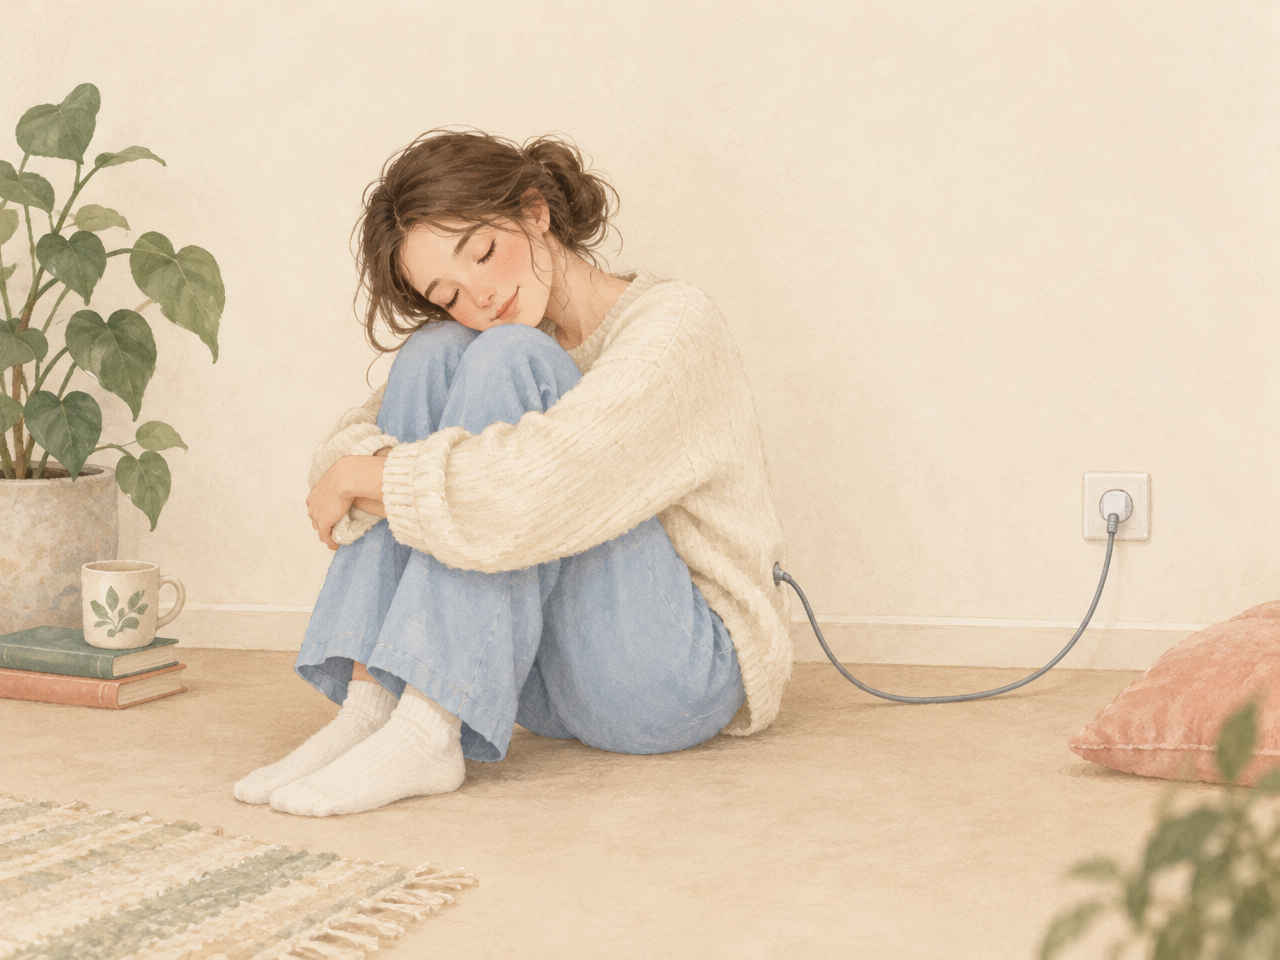
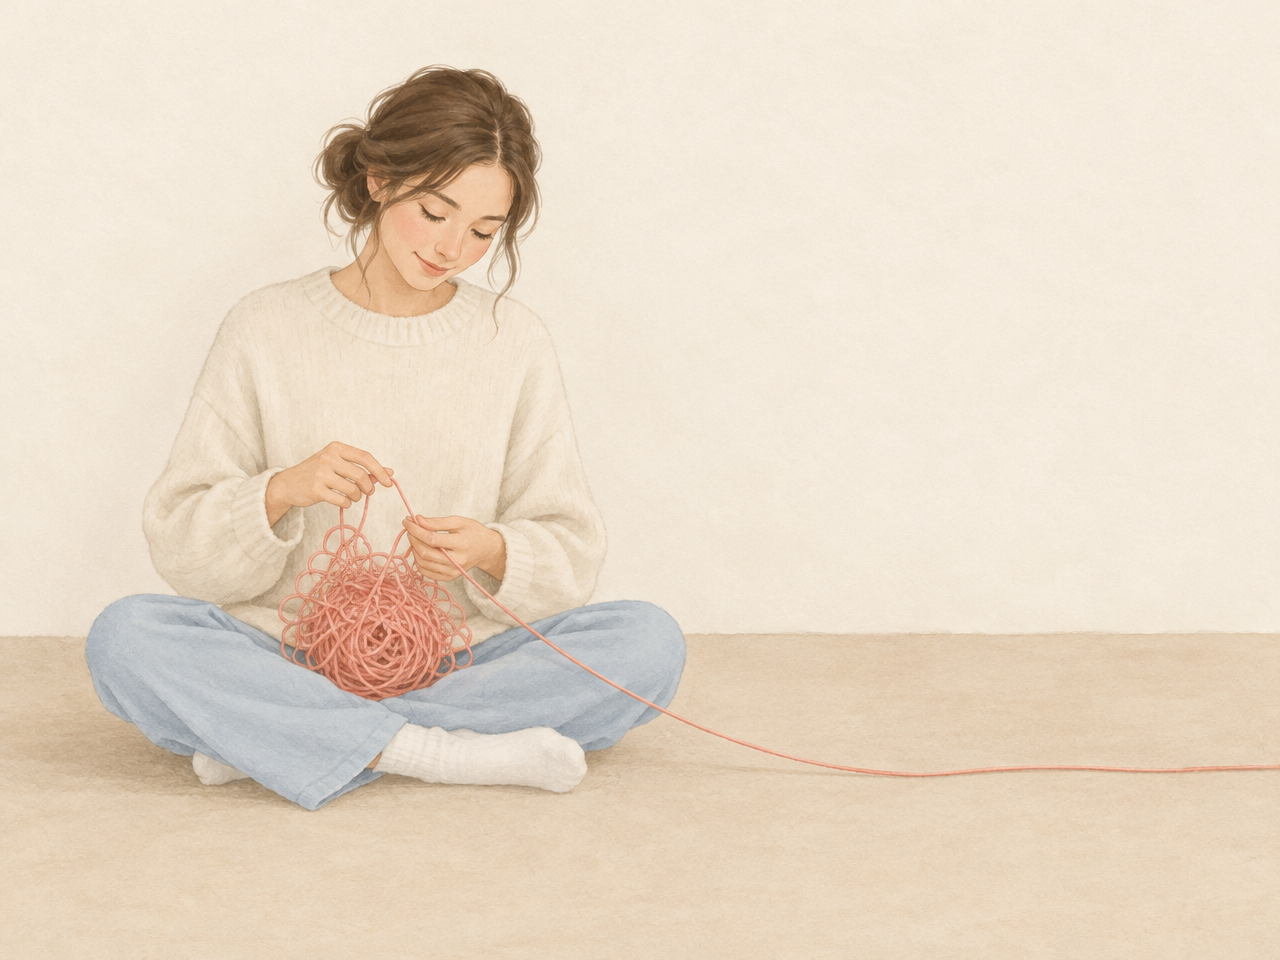
Palette saumon et bleu poudré, nouvelle illustration pour le stress
- Le doré est remplacé par le bleu : boutons RDV bleu doux, footer bleu pâle, encarts bleu brume ;
  le saumon reste pour les bandeaux, le cuivre pour les accents et les étoiles
- Stress et anxiété : elle démêle une pelote de fil qui devient une ligne calme (plus de prise électrique)

diff --git a/src/styles/global.css b/src/styles/global.css
@@ -2,18 +2,18 @@
 @import '@fontsource/young-serif';
 @import '@fontsource-variable/figtree';
 
-/* Palette sobre, pastel saumon et doré. Aucun bloc sombre, texte encre (gris chaud) partout.
-   Contrastes AA : encre sur miel 6,4:1, sur champagne et saumon > 9:1 ; cuivre sur crème 5:1. */
+/* Palette sobre : saumon pastel et bleu poudré (oct. 2026). Aucun bloc sombre, texte encre partout.
+   Contrastes AA : encre sur bleu 7:1, sur ciel, brume et saumon > 9:1 ; cuivre sur crème 5:1. */
 @theme {
   --color-creme: #faf5ef; /* fond principal */
   --color-sable: #f3e8dc; /* sections alternées, fonds de cartes */
-  --color-cuivre: #a5513f; /* saumon profond : accents texte, titres H3, liens */
-  --color-miel: #c9a25a; /* doré : boutons « Prendre rendez-vous », bandeau final, étoiles des avis */
-  --color-champagne: #eedfc0; /* doré pâle : encarts « En pratique » / RDV */
-  --color-saumon: #efc3b6; /* saumon pastel : footer, bandeau de citation */
-  --color-peche: #f5dccb; /* illustrations */
-  --color-sauge: #a9b8a2; /* vert sauge : illustrations */
-  --color-ciel: #c9d8e0; /* bleu ciel pastel : illustrations */
+  --color-cuivre: #a5513f; /* saumon profond : accents texte, titres H3, liens, étoiles des avis */
+  --color-bleu: #9fb6cb; /* bleu doux : boutons « Prendre rendez-vous », puces */
+  --color-ciel: #cfdce6; /* bleu pâle : footer */
+  --color-brume: #e3ebf1; /* bleu brume : encarts « En pratique » / RDV */
+  --color-saumon: #efc3b6; /* saumon pastel : bandeaux (citation, « Envie d'en parler ? ») */
+  --color-peche: #f5dccb; /* touches décoratives */
+  --color-sauge: #a9b8a2; /* touches décoratives */
   --color-encre: #3d3431; /* texte, contour de focus */
 
   --font-serif: 'Young Serif', Georgia, serif;
@@ -73,7 +73,7 @@
     min-height: 48px;
   }
   .btn-rdv {
-    @apply bg-miel text-encre hover:bg-[#b8904a];
+    @apply bg-bleu text-encre hover:bg-[#8aa3ba];
   }
   /* Bouton RDV posé sur un bloc coloré (corail, soleil) : fond crème pour qu'il ressorte */
   .btn-rdv.btn-on-color {
@@ -133,7 +133,7 @@
   }
   .card:hover {
     translate: 0 -4px;
-    @apply border-miel/40 bg-white/60;
+    @apply border-bleu/40 bg-white/60;
   }
   .prose-pauline p + p {
     margin-top: 1rem;

diff --git a/CLAUDE.md b/CLAUDE.md
@@ -106,24 +106,24 @@ scripts/screenshots.mjs
 
 ## Charte graphique
 
-Palette **sobre, pastel saumon et doré** (oct. 2026). Aucun bloc sombre : fonds clairs, texte encre (gris chaud) partout. Photos phares en arche (`.arch`), le reste en `rounded-2xl/3xl`.
+Palette **sobre : saumon pastel et bleu poudré** (oct. 2026 ; le doré a été écarté). Aucun bloc sombre : fonds clairs, texte encre (gris chaud) partout. Photos phares en arche (`.arch`), le reste en `rounded-2xl/3xl`.
 
 | Token | Hex | Rôle |
 |---|---|---|
 | `creme` | `#faf5ef` | fond principal |
 | `sable` | `#f3e8dc` | sections alternées, fonds de cartes |
-| `cuivre` | `#a5513f` | saumon profond : accents texte, titres H3, liens (5:1 sur crème) |
-| `miel` | `#c9a25a` | doré : **boutons « Prendre rendez-vous »** (texte encre, 6,4:1), bandeau final, étoiles des avis |
-| `champagne` | `#eedfc0` | doré pâle : encarts « En pratique » / RDV |
-| `saumon` | `#efc3b6` | saumon pastel : footer, bandeau de citation |
-| `peche`, `sauge`, `ciel` | `#f5dccb`, `#a9b8a2`, `#c9d8e0` | illustrations |
+| `cuivre` | `#a5513f` | saumon profond : accents texte, titres H3, liens, étoiles des avis (5:1 sur crème) |
+| `bleu` | `#9fb6cb` | bleu doux : **boutons « Prendre rendez-vous »** (texte encre, 7:1), puces |
+| `ciel` | `#cfdce6` | bleu pâle : footer |
+| `brume` | `#e3ebf1` | bleu brume : encarts « En pratique » / RDV |
+| `saumon` | `#efc3b6` | saumon pastel : bandeau de citation, bandeau « Envie d'en parler ? » |
+| `peche`, `sauge` | `#f5dccb`, `#a9b8a2` | touches décoratives |
 | `encre` | `#3d3431` | texte, contour de focus |
 
-- Sur un bloc coloré (champagne, miel), le bouton RDV prend la classe `btn-on-color` (fond crème) pour ressortir.
 - **Typo :** `Young Serif` pour les titres et les citations (`font-serif`), `Figtree Variable` pour le texte (`font-sans`). Corps 17 px, interligne 1,65.
 - **À éviter :** labels en MAJUSCULES espacées, mot isolé en couleur ou en italique dans un titre, numérotation 01/02/03 décorative, animations d'entrée sur chaque section, cartes identiques avec ombre grise.
 - **Logo :** `Logo.astro` (cerveau dont l'intérieur est un arbre en feuilles, vectorisé depuis le fichier de Pauline, en `currentColor`) + `public/favicon.svg` (même tracé en pivoine).
-- **Footer :** fond doré (`miel`), texte encre, bouton RDV `btn-on-color`. Pas de liste de communes dans le texte (elles restent dans le JSON-LD `areaServed`).
+- **Footer :** fond bleu pâle (`ciel`), texte encre, bouton RDV `btn-on-color`. Pas de liste de communes dans le texte (elles restent dans le JSON-LD `areaServed`).
 - **Header :** 4 entrées seulement (« Accompagnements » avec menu déroulant CSS des 7 pages au survol / focus, Qui suis-je, Mes écrits, Infos pratiques). « Hypnose et NEMO » et la FAQ sont dans le menu mobile et le footer. Téléphone en icône, bouton « Rendez-vous ». Réseaux sociaux en icônes dans le footer (`SocialIcons.astro`).
 - **Responsive :** la nav desktop apparaît à partir de `xl` (1280 px). En dessous, bouton menu (pages thématiques + sections + FAQ + langue) + icône téléphone. Le header utilise `max-w-7xl`, le contenu `max-w-6xl` (`.wrap`).
 - **Accessibilité :** focus visible (outline argile), lien d'évitement « Aller au contenu », `prefers-reduced-motion` respecté.

diff --git a/docs/prompts-illustrations.md b/docs/prompts-illustrations.md
@@ -26,7 +26,7 @@ Pour garder une série cohérente : générer les 10 dans la même conversation 
 |---|---|---|
 | `hypnose` | Accueil, « L'hypnose, c'est quoi ? » | She sits cross-legged on the floor, eyes closed, relaxed; a soft white cloud gently surrounds her head, as if she were inside a daydream. |
 | `nemo` | Accueil, « NEMO, c'est quoi ? » | She sits in a comfortable armchair, seen in profile, her eyes following a small golden light that moves from left to right, its path drawn as a soft dotted arc. |
-| `stress-anxiete` | Stress et anxiété | She sits on the floor hugging her knees, head resting on them; a thin cable runs from her back to a wall socket, as if she were recharging. |
+| `stress-anxiete` | Stress et anxiété | She sits cross-legged and patiently untangles a knotted ball of pastel salmon thread on her lap; from her hands the thread becomes a smooth, straight line across the floor. |
 | `gestion-des-emotions` | Émotions envahissantes | Seen from behind, shoulders and head, wearing a cream and sage striped sweater; small symbols float around her head: a heart, a tiny rain cloud, a spark, a spiral. |
 | `souvenirs-douloureux-deuil-separation` | Souvenirs douloureux | Seen from behind, she stands in front of an open door that reveals a bright blue sky with soft clouds; light spills onto the floor. |
 | `phobies-peurs-blocages` | Peurs et blocages | A hand and forearm reach up out of a dark round hole in the floor, toward the light, fingers open. |
@@ -58,7 +58,7 @@ et coller ce message, puis demander les images une par une :
 
 Puis, une scène par message :
 
-1. `stress-anxiete` : She sits on the floor hugging her knees, head resting on them; a thin cable runs from her back to a wall socket, as if she were recharging.
+1. `stress-anxiete` : She sits cross-legged and patiently untangles a knotted ball of pastel salmon thread on her lap; from her hands the thread becomes a smooth, straight line across the floor.
 2. `souvenirs-douloureux-deuil-separation` : Seen from behind, she stands in front of an open door that reveals a bright blue sky with soft clouds; light spills onto the floor.
 3. `phobies-peurs-blocages` : A hand and forearm reach up out of a dark round hole in the floor, toward the light, fingers open.
 4. `confiance-en-soi` : She stands facing a large round golden mirror; her reflection stands tall and confident with both arms raised.
